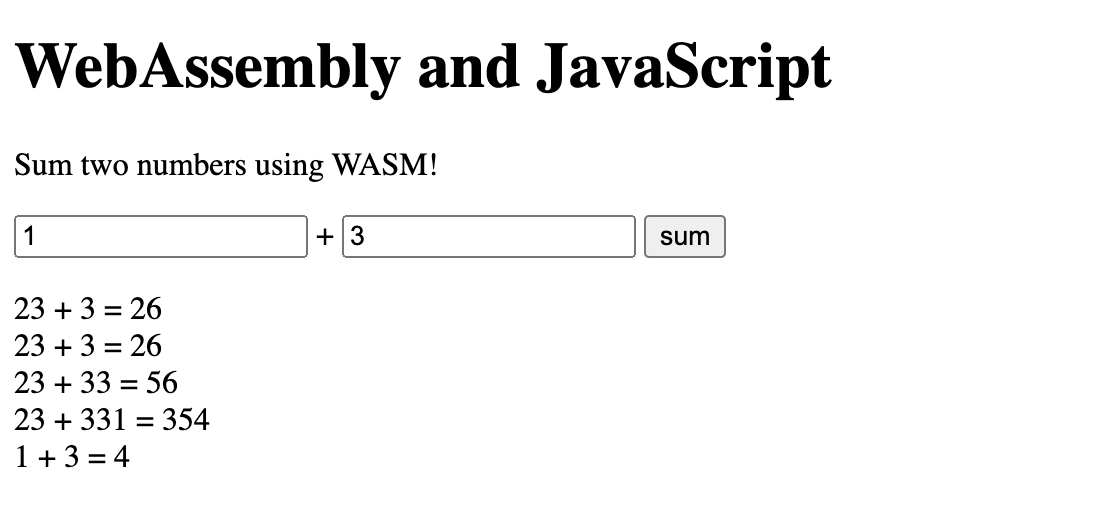
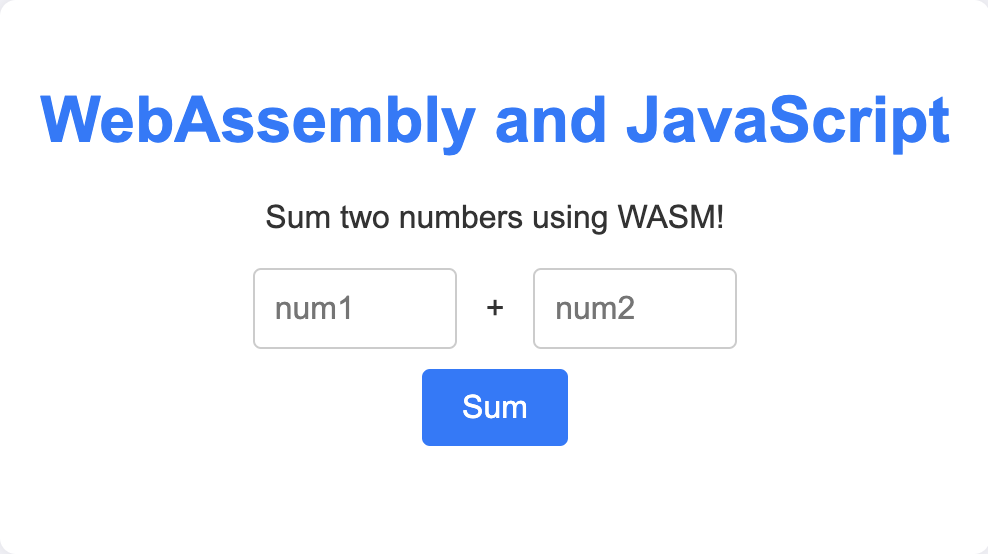
chore: improve styling and set up workflow build

diff --git a/golang-wasm-demo/web/index.html b/golang-wasm-demo/web/index.html
@@ -4,25 +4,76 @@
     <meta charset="UTF-8">
     <meta name="viewport" content="width=device-width, initial-scale=1.0">
     <title>WebAssembly Example</title>
+    <style>
+        body {
+            font-family: Arial, sans-serif;
+            background-color: #f4f4f9;
+            color: #333;
+            display: flex;
+            justify-content: center;
+            align-items: center;
+            height: 100vh;
+            margin: 0;
+        }
+
+        h1 {
+            color: #007bff;
+        }
+
+        .container {
+            text-align: center;
+            padding: 20px;
+            background-color: #fff;
+            border-radius: 8px;
+            box-shadow: 0 0 10px rgba(0, 0, 0, 0.1);
+        }
+
+        input {
+            width: 80px;
+            padding: 10px;
+            font-size: 16px;
+            border: 1px solid #ccc;
+            border-radius: 4px;
+            margin: 0 10px;
+        }
+
+        button {
+            padding: 10px 20px;
+            font-size: 16px;
+            color: #fff;
+            background-color: #007bff;
+            border: none;
+            border-radius: 4px;
+            cursor: pointer;
+            margin: 10px 0;
+        }
+
+        button:hover {
+            background-color: #0056b3;
+        }
+
+        #result {
+            font-size: 24px;
+            font-weight: bold;
+            color: #007bff;
+        }
+    </style>
 </head>
 <body>
-    <h1>WebAssembly and JavaScript</h1>
+    <div class="container">
+        <h1>WebAssembly and JavaScript</h1>
+        <p>Sum two numbers using WASM!</p>
 
-    <p>Sum two numbers using WASM!</p>
+        <input type="number" name="num1" id="num1" placeholder="num1">
+        <span>+</span>
+        <input type="number" name="num2" id="num2" placeholder="num2">
 
-    <input type="number" name="num1" id="num1" placeholder="num1">
-    <span>+</span>
-    <input type="number" name="num2" id="num2" placeholder="num2">
+        <br>
 
+        <button id="myButton">Sum</button>
 
-
-
-    <button id="myButton">
-        sum
-    </button>
-
-    <p id="result"></p>
-
+        <p id="result"></p>
+    </div>
 
     <script src="wasm_exec.js"></script>
     <script src="index.js"></script>
